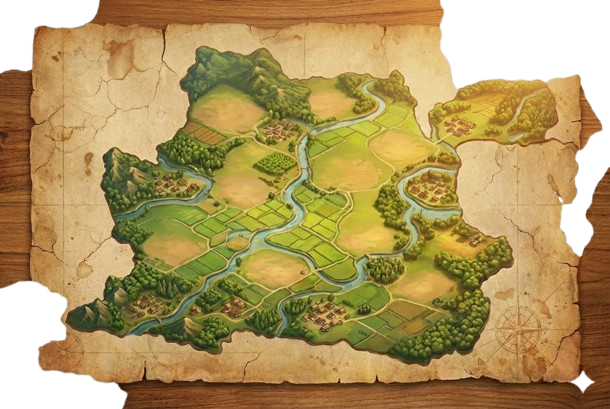
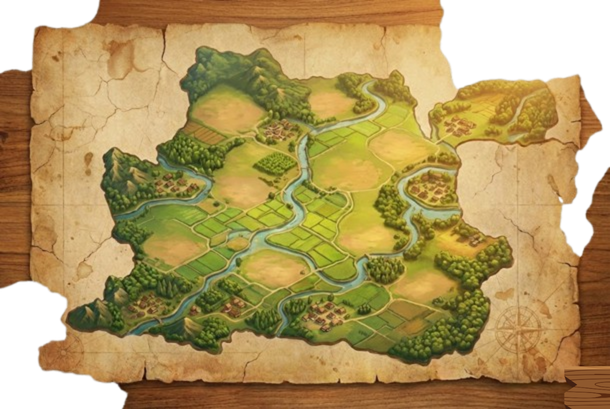
update donee sandhangan

Changed region(s): [[0.9033, 0.8802, 1.0, 1.0]]

diff --git a/src/pages/sandhangan/sandhangan.js b/src/pages/sandhangan/sandhangan.js
@@ -1,13 +1,25 @@
 import "./sandhangan.css";
 
 const pages = [
-  '/assets/sandhangan.jpeg',
-  '/assets/sandhangan panyigeg.jpeg',
-  '/assets/sandhangan mandaswara.jpeg'
+  "/assets/sandhangan.jpeg",
+  "/assets/sandhangan - wulu.jpeg",
+  "/assets/sandhangan - taling.jpeg",
+  "/assets/sandhangan - taling tarung.jpeg",
+  "/assets/sandhangan - suku.jpeg",
+  "/assets/sandhangan - pepet.jpeg",
+  "/assets/sandhangan panyigeg.jpeg",
+  "/assets/sandhangan panyigeg - wignyan.jpeg",
+  "/assets/sandhangan panyigeg - pangkon.jpeg",
+  "/assets/sandhangan panyigeg - layar.jpeg",
+  "/assets/sandhangan panyigeg - cecak.jpeg",
+  "/assets/sandhangan mandaswara.jpeg",
+  "/assets/sandhangan mandaswara - pengkal.jpeg",
+  "/assets/sandhangan mandaswara - cakra.jpeg",
+  "/assets/sandhangan mandaswara - cakra keret.jpeg",
 ];
 
 // Preload images to avoid loading flickers
-pages.forEach(src => {
+pages.forEach((src) => {
   const img = new Image();
   img.src = src;
 });
@@ -19,16 +31,16 @@ window.openSandhanganCover = () => {
   const wrapper = document.getElementById("sandhangan-intro-book-wrapper");
   const frontCover = document.getElementById("sandhangan-intro-front-cover");
   const introCover = document.getElementById("sandhangan-cover-intro");
-  
-  if(wrapper && frontCover && introCover) {
+
+  if (wrapper && frontCover && introCover) {
     frontCover.style.transform = "rotateY(-120deg) translateZ(2px)";
-    
+
     setTimeout(() => {
       wrapper.style.transform = "rotateY(15deg) rotateX(10deg) scale(15)";
       wrapper.style.opacity = "0";
       introCover.style.opacity = "0";
       introCover.style.pointerEvents = "none";
-      
+
       setTimeout(() => {
         introCover.classList.add("hidden");
       }, 1500);
@@ -84,16 +96,16 @@ function renderBook() {
 
 window.prevPage = () => {
   if (currentPage > 0) {
-    const pageLeft = bookLayout.querySelector('.page-left');
-    if(pageLeft) pageLeft.classList.add("page-turn-left-out");
+    const pageLeft = bookLayout.querySelector(".page-left");
+    if (pageLeft) pageLeft.classList.add("page-turn-left-out");
 
     setTimeout(() => {
       currentPage--;
       renderBook();
-      const newPageRight = bookLayout.querySelector('.page-right');
-      if(newPageRight) newPageRight.classList.add("page-turn-right-in");
+      const newPageRight = bookLayout.querySelector(".page-right");
+      if (newPageRight) newPageRight.classList.add("page-turn-right-in");
       setTimeout(() => {
-        if(newPageRight) newPageRight.classList.remove("page-turn-right-in");
+        if (newPageRight) newPageRight.classList.remove("page-turn-right-in");
       }, 400);
     }, 400);
   }
@@ -101,16 +113,16 @@ window.prevPage = () => {
 
 window.nextPage = () => {
   if (currentPage < pages.length - 1) {
-    const pageRight = bookLayout.querySelector('.page-right');
-    if(pageRight) pageRight.classList.add("page-turn-right-out");
+    const pageRight = bookLayout.querySelector(".page-right");
+    if (pageRight) pageRight.classList.add("page-turn-right-out");
 
     setTimeout(() => {
       currentPage++;
       renderBook();
-      const newPageLeft = bookLayout.querySelector('.page-left');
-      if(newPageLeft) newPageLeft.classList.add("page-turn-left-in");
+      const newPageLeft = bookLayout.querySelector(".page-left");
+      if (newPageLeft) newPageLeft.classList.add("page-turn-left-in");
       setTimeout(() => {
-        if(newPageLeft) newPageLeft.classList.remove("page-turn-left-in");
+        if (newPageLeft) newPageLeft.classList.remove("page-turn-left-in");
       }, 400);
     }, 400);
   }
